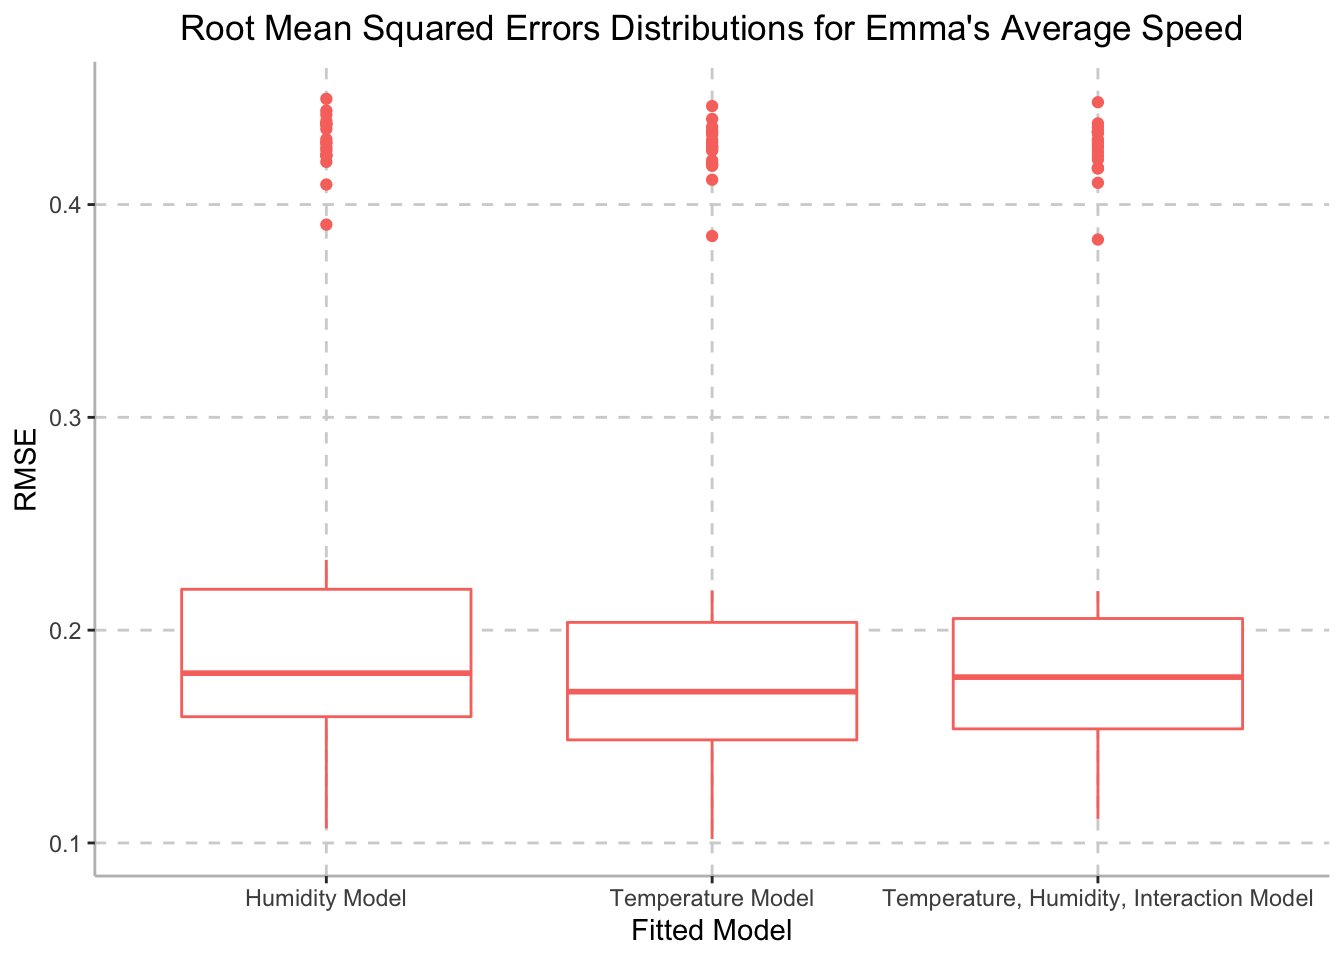
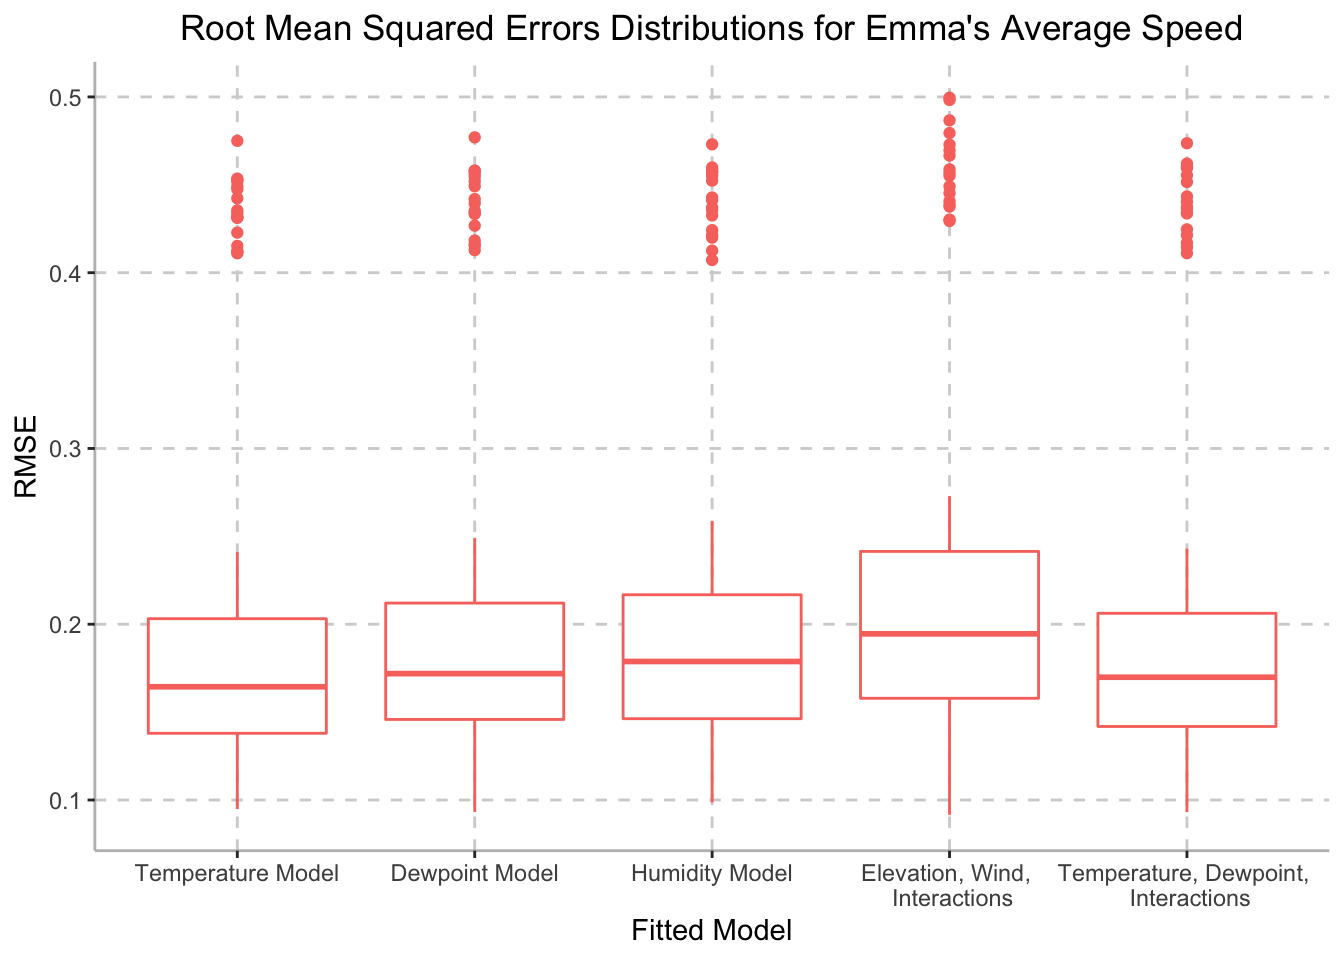
Adding new regression models

diff --git a/final_report.html b/final_report.html
@@ -891,8 +891,8 @@ marathon_geo %&gt;%
                              &quot;&lt;br&gt;Cadence:&quot;, cadence,
                             &quot;&lt;br&gt;Altitude:&quot;, enhanced_altitude)) %&gt;% 
   addProviderTiles(providers$CartoDB.Positron)</code></pre>
-<div id="htmlwidget-c97d6fc42730104ee397" style="width:672px;height:480px;" class="leaflet html-widget"></div>
-<script type="application/json" data-for="htmlwidget-c97d6fc42730104ee397">{"x":{"options":{"crs":{"crsClass":"L.CRS.EPSG3857","code":null,"proj4def":null,"projectedBounds":null,"options":{}}},"calls":[{"method":"addTiles","args":["https://{s}.tile.openstreetmap.org/{z}/{x}/{y}.png",null,null,{"minZoom":0,"maxZoom":18,"tileSize":256,"subdomains":"abc","errorTileUrl":"","tms":false,"noWrap":false,"zoomOffset":0,"zoomReverse":false,"opacity":1,"zIndex":1,"detectRetina":false,"attribution":"&copy; <a href=\"https://openstreetmap.org\">OpenStreetMap<\/a> contributors, <a href=\"https://creativecommons.org/licenses/by-sa/2.0/\">CC-BY-SA<\/a>"}]},{"method":"addCircleMarkers","args":[[40.6104348705628,40.7042159239592,40.7164656348145,40.728277819874,40.740826228118,40.7491534880795,40.7558571904419,40.7777123779879,40.7903228550433,40.8023561141454,40.6192627834549,40.8118997489457,40.8102504578455,40.8001325806757,40.7882020822061,40.7763461387941,40.766959590201,40.770384692587,null,40.6444014760309,40.6557787290627,40.6671305434582,40.6794894834151,40.6876716191673,40.6921380146503,40.6043989839213],[-74.0346232919979,-73.9608535200188,-73.9589246148317,-73.9524508345938,-73.9525773309703,-73.9450712946021,-73.9528505667326,-73.9487948260759,-73.939629788009,-73.9298666665563,-74.0288426203294,-73.928230043045,-73.9394263029525,-73.9473303446644,-73.9557053759358,-73.966941702771,-73.9756988926056,-73.9788563751305,null,-74.0148388704929,-74.0029969833497,-73.9916699058621,-73.9818277620092,-73.9710569978992,-73.9571167532644,-74.0517789316213],7,null,null,{"interactive":true,"className":"","stroke":true,"color":"orange","weight":5,"opacity":0.5,"fill":true,"fillColor":"orange","fillOpacity":0.75},null,null,["Mile: 1 <br>Speed: 7.16634034234234 <br>HR: 169.648648648649 <br>Cadence: 79.945945945946 <br>Altitude: 55.3783783783784","Mile: 10 <br>Speed: 5.91045904545455 <br>HR: 173.840909090909 <br>Cadence: 78.7045454545455 <br>Altitude: 33.7590909090909","Mile: 11 <br>Speed: 6.16624646456693 <br>HR: 177.094488188976 <br>Cadence: 82.5984251968504 <br>Altitude: 16.0708661417323","Mile: 12 <br>Speed: 6.49777232743363 <br>HR: 177.964601769911 <br>Cadence: 80.9469026548673 <br>Altitude: 18.8495575221239","Mile: 13 <br>Speed: 6.69400279464286 <br>HR: 178.732142857143 <br>Cadence: 82.5803571428571 <br>Altitude: 12.6339285714286","Mile: 14 <br>Speed: 5.6681484084507 <br>HR: 176.633802816901 <br>Cadence: 82.3943661971831 <br>Altitude: 32.8197183098592","Mile: 15 <br>Speed: 3.31547001376147 <br>HR: 139.56880733945 <br>Cadence: 79.0596330275229 <br>Altitude: 24.3201834862385","Mile: 17 <br>Speed: 6.22130553389831 <br>HR: 171.686440677966 <br>Cadence: 82.7966101694915 <br>Altitude: 42.0186440677966","Mile: 18 <br>Speed: 5.64340035384615 <br>HR: 150.307692307692 <br>Cadence: 72.3923076923077 <br>Altitude: 23.2507692307692","Mile: 19 <br>Speed: 5.27883065625 <br>HR: 145.89375 <br>Cadence: 71.54375 <br>Altitude: 24.7425","Mile: 2 <br>Speed: 6.9439558440367 <br>HR: 173 <br>Cadence: 80.8623853211009 <br>Altitude: 28.9633027522936","Mile: 20 <br>Speed: 5.93609676258993 <br>HR: 160.647482014388 <br>Cadence: 81.4244604316547 <br>Altitude: 13.6474820143885","Mile: 21 <br>Speed: 6.25834048854962 <br>HR: 159.206106870229 <br>Cadence: 81.8015267175573 <br>Altitude: 27.1435114503817","Mile: 22 <br>Speed: 5.80403946616541 <br>HR: 167.353383458647 <br>Cadence: 80.4586466165414 <br>Altitude: 46.0736842105263","Mile: 23 <br>Speed: 5.55055204511278 <br>HR: 172.233082706767 <br>Cadence: 76.6842105263158 <br>Altitude: 73.8285714285714","Mile: 24 <br>Speed: 5.43006440875912 <br>HR: 173.737226277372 <br>Cadence: 71.2116788321168 <br>Altitude: 26.043795620438","Mile: 25 <br>Speed: 5.92434019254658 <br>HR: 176.484472049689 <br>Cadence: 80.0683229813665 <br>Altitude: 7.53540372670807","Mile: 26-Finish <br>Speed: 6.85462368518519 <br>HR: 183.296296296296 <br>Cadence: 86.1481481481482 <br>Altitude: 19.3185185185185","Mile: 3 <br>Speed: NA <br>HR: 174.938053097345 <br>Cadence: 80.4070796460177 <br>Altitude: 33.7256637168142","Mile: 4 <br>Speed: 6.94028204672897 <br>HR: 175.383177570093 <br>Cadence: 80.4485981308411 <br>Altitude: 27.985046728972","Mile: 5 <br>Speed: 6.79859621052632 <br>HR: 172.69298245614 <br>Cadence: 81.3245614035088 <br>Altitude: 14.8368421052632","Mile: 6 <br>Speed: 6.84808492982456 <br>HR: 175.333333333333 <br>Cadence: 81.780701754386 <br>Altitude: 26.0666666666667","Mile: 7 <br>Speed: 6.65007464705882 <br>HR: 175.352941176471 <br>Cadence: 79.4705882352941 <br>Altitude: 22.6436974789916","Mile: 8 <br>Speed: 6.82514246280992 <br>HR: 177.280991735537 <br>Cadence: 81.7851239669422 <br>Altitude: 42.1074380165289","Mile: 9 <br>Speed: 6.75896050862069 <br>HR: 177.534482758621 <br>Cadence: 82.5948275862069 <br>Altitude: 37.3586206896552","Mile: Start <br>Speed: 6.53191371774194 <br>HR: 168.548387096774 <br>Cadence: 80.9112903225806 <br>Altitude: 68.2774193548387"],null,["1","10","11","12","13","14","15","17","18","19","2","20","21","22","23","24","25","26-Finish","3","4","5","6","7","8","9","Start"],{"interactive":false,"permanent":false,"direction":"auto","opacity":1,"offset":[0,0],"textsize":"10px","textOnly":false,"className":"","sticky":true},null]},{"method":"addProviderTiles","args":["CartoDB.Positron",null,null,{"errorTileUrl":"","noWrap":false,"detectRetina":false}]}],"limits":{"lat":[40.6043989839213,40.8118997489457],"lng":[-74.0517789316213,-73.928230043045]}},"evals":[],"jsHooks":[]}</script>
+<div id="htmlwidget-c4be919c3aa57919ebe1" style="width:672px;height:480px;" class="leaflet html-widget"></div>
+<script type="application/json" data-for="htmlwidget-c4be919c3aa57919ebe1">{"x":{"options":{"crs":{"crsClass":"L.CRS.EPSG3857","code":null,"proj4def":null,"projectedBounds":null,"options":{}}},"calls":[{"method":"addTiles","args":["https://{s}.tile.openstreetmap.org/{z}/{x}/{y}.png",null,null,{"minZoom":0,"maxZoom":18,"tileSize":256,"subdomains":"abc","errorTileUrl":"","tms":false,"noWrap":false,"zoomOffset":0,"zoomReverse":false,"opacity":1,"zIndex":1,"detectRetina":false,"attribution":"&copy; <a href=\"https://openstreetmap.org\">OpenStreetMap<\/a> contributors, <a href=\"https://creativecommons.org/licenses/by-sa/2.0/\">CC-BY-SA<\/a>"}]},{"method":"addCircleMarkers","args":[[40.6104348705628,40.7042159239592,40.7164656348145,40.728277819874,40.740826228118,40.7491534880795,40.7558571904419,40.7777123779879,40.7903228550433,40.8023561141454,40.6192627834549,40.8118997489457,40.8102504578455,40.8001325806757,40.7882020822061,40.7763461387941,40.766959590201,40.770384692587,null,40.6444014760309,40.6557787290627,40.6671305434582,40.6794894834151,40.6876716191673,40.6921380146503,40.6043989839213],[-74.0346232919979,-73.9608535200188,-73.9589246148317,-73.9524508345938,-73.9525773309703,-73.9450712946021,-73.9528505667326,-73.9487948260759,-73.939629788009,-73.9298666665563,-74.0288426203294,-73.928230043045,-73.9394263029525,-73.9473303446644,-73.9557053759358,-73.966941702771,-73.9756988926056,-73.9788563751305,null,-74.0148388704929,-74.0029969833497,-73.9916699058621,-73.9818277620092,-73.9710569978992,-73.9571167532644,-74.0517789316213],7,null,null,{"interactive":true,"className":"","stroke":true,"color":"orange","weight":5,"opacity":0.5,"fill":true,"fillColor":"orange","fillOpacity":0.75},null,null,["Mile: 1 <br>Speed: 7.16634034234234 <br>HR: 169.648648648649 <br>Cadence: 79.945945945946 <br>Altitude: 55.3783783783784","Mile: 10 <br>Speed: 5.91045904545455 <br>HR: 173.840909090909 <br>Cadence: 78.7045454545455 <br>Altitude: 33.7590909090909","Mile: 11 <br>Speed: 6.16624646456693 <br>HR: 177.094488188976 <br>Cadence: 82.5984251968504 <br>Altitude: 16.0708661417323","Mile: 12 <br>Speed: 6.49777232743363 <br>HR: 177.964601769911 <br>Cadence: 80.9469026548673 <br>Altitude: 18.8495575221239","Mile: 13 <br>Speed: 6.69400279464286 <br>HR: 178.732142857143 <br>Cadence: 82.5803571428571 <br>Altitude: 12.6339285714286","Mile: 14 <br>Speed: 5.6681484084507 <br>HR: 176.633802816901 <br>Cadence: 82.3943661971831 <br>Altitude: 32.8197183098592","Mile: 15 <br>Speed: 3.31547001376147 <br>HR: 139.56880733945 <br>Cadence: 79.0596330275229 <br>Altitude: 24.3201834862385","Mile: 17 <br>Speed: 6.22130553389831 <br>HR: 171.686440677966 <br>Cadence: 82.7966101694915 <br>Altitude: 42.0186440677966","Mile: 18 <br>Speed: 5.64340035384615 <br>HR: 150.307692307692 <br>Cadence: 72.3923076923077 <br>Altitude: 23.2507692307692","Mile: 19 <br>Speed: 5.27883065625 <br>HR: 145.89375 <br>Cadence: 71.54375 <br>Altitude: 24.7425","Mile: 2 <br>Speed: 6.9439558440367 <br>HR: 173 <br>Cadence: 80.8623853211009 <br>Altitude: 28.9633027522936","Mile: 20 <br>Speed: 5.93609676258993 <br>HR: 160.647482014388 <br>Cadence: 81.4244604316547 <br>Altitude: 13.6474820143885","Mile: 21 <br>Speed: 6.25834048854962 <br>HR: 159.206106870229 <br>Cadence: 81.8015267175573 <br>Altitude: 27.1435114503817","Mile: 22 <br>Speed: 5.80403946616541 <br>HR: 167.353383458647 <br>Cadence: 80.4586466165414 <br>Altitude: 46.0736842105263","Mile: 23 <br>Speed: 5.55055204511278 <br>HR: 172.233082706767 <br>Cadence: 76.6842105263158 <br>Altitude: 73.8285714285714","Mile: 24 <br>Speed: 5.43006440875912 <br>HR: 173.737226277372 <br>Cadence: 71.2116788321168 <br>Altitude: 26.043795620438","Mile: 25 <br>Speed: 5.92434019254658 <br>HR: 176.484472049689 <br>Cadence: 80.0683229813665 <br>Altitude: 7.53540372670807","Mile: 26-Finish <br>Speed: 6.85462368518519 <br>HR: 183.296296296296 <br>Cadence: 86.1481481481482 <br>Altitude: 19.3185185185185","Mile: 3 <br>Speed: NA <br>HR: 174.938053097345 <br>Cadence: 80.4070796460177 <br>Altitude: 33.7256637168142","Mile: 4 <br>Speed: 6.94028204672897 <br>HR: 175.383177570093 <br>Cadence: 80.4485981308411 <br>Altitude: 27.985046728972","Mile: 5 <br>Speed: 6.79859621052632 <br>HR: 172.69298245614 <br>Cadence: 81.3245614035088 <br>Altitude: 14.8368421052632","Mile: 6 <br>Speed: 6.84808492982456 <br>HR: 175.333333333333 <br>Cadence: 81.780701754386 <br>Altitude: 26.0666666666667","Mile: 7 <br>Speed: 6.65007464705882 <br>HR: 175.352941176471 <br>Cadence: 79.4705882352941 <br>Altitude: 22.6436974789916","Mile: 8 <br>Speed: 6.82514246280992 <br>HR: 177.280991735537 <br>Cadence: 81.7851239669422 <br>Altitude: 42.1074380165289","Mile: 9 <br>Speed: 6.75896050862069 <br>HR: 177.534482758621 <br>Cadence: 82.5948275862069 <br>Altitude: 37.3586206896552","Mile: Start <br>Speed: 6.53191371774194 <br>HR: 168.548387096774 <br>Cadence: 80.9112903225806 <br>Altitude: 68.2774193548387"],null,["1","10","11","12","13","14","15","17","18","19","2","20","21","22","23","24","25","26-Finish","3","4","5","6","7","8","9","Start"],{"interactive":false,"permanent":false,"direction":"auto","opacity":1,"offset":[0,0],"textsize":"10px","textOnly":false,"className":"","sticky":true},null]},{"method":"addProviderTiles","args":["CartoDB.Positron",null,null,{"errorTileUrl":"","noWrap":false,"detectRetina":false}]}],"limits":{"lat":[40.6043989839213,40.8118997489457],"lng":[-74.0517789316213,-73.928230043045]}},"evals":[],"jsHooks":[]}</script>
 <p>The leaflet plot above demonstrates Emma’s NYCM racing path. Each
 marker indicates the mile number and average speed (meters/sec), heart
 rate, cadence, and altitude for that mile. As a note, Strava failed to
@@ -903,29 +903,34 @@ leaflet above.</p>
 </div>
 <div id="additional-analysis" class="section level2">
 <h2>Additional Analysis</h2>
-<div id="performance-regression-models" class="section level3">
-<h3>Performance Regression Models</h3>
-<pre class="r"><code>speed_temp = lm(average_speed ~ weather_temperature, data = tidy_training)
-
-speed_humidity = lm(average_speed ~ humidity, data = tidy_training)
-
-speed_temp_humidity_int = lm(average_speed ~ (weather_temperature + humidity)^3, data = tidy_training)</code></pre>
+<div id="speed-regression-models" class="section level3">
+<h3>Speed Regression Models</h3>
+<pre class="r"><code>fit1 = lm(average_speed ~ weather_temperature, data = tidy_training)
+fit2 = lm(average_speed ~ dewpoint, data = tidy_training)
+fit3 = lm(average_speed ~ humidity, data = tidy_training)
+fit4 = lm(average_speed ~ (elevation_gain + wind_speed)^3, data = tidy_training)
+fit5 = lm(average_speed ~ (weather_temperature + dewpoint)^3, data = tidy_training)</code></pre>
 </div>
-<div id="cross-validation" class="section level3">
-<h3>Cross-Validation</h3>
+<div id="cross-validation-speed" class="section level3">
+<h3>Cross-Validation: Speed</h3>
 <pre class="r"><code>cv_df = 
   crossv_mc(tidy_training, 100)
 
 cv_df = cv_df %&gt;% 
   mutate(
-    speed_temp_mod      = map(.x = train, ~lm(average_speed ~ weather_temperature, data = .x)), 
-    speed_humidity_mod   = map(.x = train, ~lm(average_speed ~ humidity, data = .x)), 
-    speed_temp_humidity_int_mod = map(.x = train, ~lm(average_speed ~ (weather_temperature + humidity)^3, data = .x))) %&gt;% 
+    mod1 = map(.x = train, ~lm(average_speed ~ weather_temperature, data = .x)), 
+    mod2 = map(.x = train, ~lm(average_speed ~ dewpoint, data = .x)), 
+    mod3 = map(.x = train, ~lm(average_speed ~ humidity, data = .x)), 
+    mod4 = map(.x = train, ~lm(average_speed ~ (elevation_gain + wind_speed)^3, data = .x)),
+    mod5 = map(.x = train, ~lm(average_speed ~ (weather_temperature + dewpoint)^3, data = .x))) %&gt;% 
   mutate(
-    rmse_speed_temp = map2_dbl(.x = speed_temp_mod, .y = test, ~rmse(model = .x, data = .y)), 
-    rmse_speed_humidity = map2_dbl(.x = speed_humidity_mod, .y = test, ~rmse(model = .x, data = .y)), 
-    rmse_speed_temp_humidity_int = map2_dbl(.x = speed_temp_humidity_int_mod, .y = test, ~rmse(model = .x, data = .y)))</code></pre>
-<pre class="r"><code>cv_df %&gt;% 
+    rmse_mod1 = map2_dbl(.x = mod1, .y = test, ~rmse(model = .x, data = .y)), 
+    rmse_mod2 = map2_dbl(.x = mod2, .y = test, ~rmse(model = .x, data = .y)), 
+    rmse_mod3 = map2_dbl(.x = mod3, .y = test, ~rmse(model = .x, data = .y)),
+    rmse_mod4 = map2_dbl(.x = mod4, .y = test, ~rmse(model = .x, data = .y)),
+    rmse_mod5 = map2_dbl(.x = mod5, .y = test, ~rmse(model = .x, data = .y)))
+
+cv_df %&gt;% 
   select(starts_with(&quot;rmse&quot;)) %&gt;% 
   pivot_longer(
     everything(), 
@@ -942,11 +947,108 @@ cv_df = cv_df %&gt;%
         panel.background = element_blank(), 
         legend.position = &quot;none&quot;, 
         panel.grid.major = element_line(color = &quot;light grey&quot;, linetype = &quot;dashed&quot;),
-        plot.title = element_text(hjust = 0.5)) + 
-  scale_x_discrete(labels = c(&quot;speed_humidity&quot; = &quot;Humidity Model&quot;, 
-                              &quot;speed_temp&quot; = &quot;Temperature Model&quot;, 
-                              &quot;speed_temp_humidity_int&quot; = &quot;Temperature, Humidity, Interaction Model&quot;))</code></pre>
-<p><img src="final_report_files/figure-html/unnamed-chunk-16-1.png" width="672" /></p>
+        plot.title = element_text(hjust = 0.5)) +
+  scale_x_discrete(labels = c(&quot;mod1&quot; = &quot;Temperature Model&quot;, 
+                              &quot;mod2&quot; = &quot;Dewpoint Model&quot;, 
+                              &quot;mod3&quot; = &quot;Humidity Model&quot;,
+                              &quot;mod4&quot; = &quot;Elevation, Wind, \n Interactions&quot;,
+                              &quot;mod5&quot; = &quot;Temperature, Dewpoint, \n Interactions&quot;))</code></pre>
+<p><img src="final_report_files/figure-html/unnamed-chunk-15-1.png" width="672" /></p>
+<pre class="r"><code>summary(fit1)</code></pre>
+<pre><code>## 
+## Call:
+## lm(formula = average_speed ~ weather_temperature, data = tidy_training)
+## 
+## Residuals:
+##      Min       1Q   Median       3Q      Max 
+## -1.67575 -0.04426  0.02527  0.08812  0.52378 
+## 
+## Coefficients:
+##                     Estimate Std. Error t value Pr(&gt;|t|)    
+## (Intercept)         2.828694   0.098756  28.643   &lt;2e-16 ***
+## weather_temperature 0.010893   0.004964   2.194    0.031 *  
+## ---
+## Signif. codes:  0 &#39;***&#39; 0.001 &#39;**&#39; 0.01 &#39;*&#39; 0.05 &#39;.&#39; 0.1 &#39; &#39; 1
+## 
+## Residual standard error: 0.2448 on 83 degrees of freedom
+##   (23 observations deleted due to missingness)
+## Multiple R-squared:  0.05483,    Adjusted R-squared:  0.04344 
+## F-statistic: 4.815 on 1 and 83 DF,  p-value: 0.03101</code></pre>
+</div>
+<div id="relative-effort-regression-models" class="section level3">
+<h3>Relative Effort Regression Models</h3>
+<pre class="r"><code>fit1 = lm(relative_effort ~ weather_temperature, data = tidy_training)
+fit2 = lm(relative_effort ~ dewpoint, data = tidy_training)
+fit3 = lm(relative_effort ~ humidity, data = tidy_training)
+fit4 = lm(relative_effort ~ (elevation_gain + wind_speed)^3, data = tidy_training)
+fit5 = lm(relative_effort ~ (weather_temperature + dewpoint + humidity)^4, data = tidy_training)</code></pre>
+</div>
+<div id="cross-validation-relative-effort" class="section level3">
+<h3>Cross-Validation: Relative Effort</h3>
+<pre class="r"><code>cv_df = 
+  crossv_mc(tidy_training, 100)
+
+cv_df = cv_df %&gt;% 
+  mutate(
+    mod1 = map(.x = train, ~lm(relative_effort ~ weather_temperature, data = .x)), 
+    mod2 = map(.x = train, ~lm(relative_effort ~ dewpoint, data = .x)), 
+    mod3 = map(.x = train, ~lm(relative_effort ~ humidity, data = .x)), 
+    mod4 = map(.x = train, ~lm(relative_effort ~ (elevation_gain + wind_speed)^3, data = .x)),
+    mod5 = map(.x = train, ~lm(relative_effort ~ (weather_temperature + dewpoint + humidity)^4, data = .x))) %&gt;% 
+  mutate(
+    rmse_mod1 = map2_dbl(.x = mod1, .y = test, ~rmse(model = .x, data = .y)), 
+    rmse_mod2 = map2_dbl(.x = mod2, .y = test, ~rmse(model = .x, data = .y)), 
+    rmse_mod3 = map2_dbl(.x = mod3, .y = test, ~rmse(model = .x, data = .y)),
+    rmse_mod4 = map2_dbl(.x = mod4, .y = test, ~rmse(model = .x, data = .y)),
+    rmse_mod5 = map2_dbl(.x = mod5, .y = test, ~rmse(model = .x, data = .y)))
+
+cv_df %&gt;% 
+  select(starts_with(&quot;rmse&quot;)) %&gt;% 
+  pivot_longer(
+    everything(), 
+    names_to = &quot;model&quot;, 
+    values_to = &quot;rmse&quot;, 
+    names_prefix = &quot;rmse_&quot;) %&gt;% 
+  ggplot(aes(x = model, y = rmse, color = c(&quot;#FFA500&quot;))) +
+  geom_boxplot() + 
+  labs(
+    title = &quot;Root Mean Squared Errors Distributions for Emma&#39;s Relative Effort&quot;, 
+    x = &quot;Fitted Model&quot;, 
+    y = &quot;RMSE&quot;)  + 
+  theme(axis.line = element_line(color = &quot;grey&quot;), 
+        panel.background = element_blank(), 
+        legend.position = &quot;none&quot;, 
+        panel.grid.major = element_line(color = &quot;light grey&quot;, linetype = &quot;dashed&quot;),
+        plot.title = element_text(hjust = 0.5)) +
+  scale_x_discrete(labels = c(&quot;mod1&quot; = &quot;Temperature Model&quot;, 
+                              &quot;mod2&quot; = &quot;Dewpoint Model&quot;, 
+                              &quot;mod3&quot; = &quot;Humidity Model&quot;,
+                              &quot;mod4&quot; = &quot;Elevation, Wind, \n Interactions&quot;,
+                              &quot;mod5&quot; = &quot;Temperature, Dewpoint, \n Humidity, Interactions&quot;))</code></pre>
+<p><img src="final_report_files/figure-html/unnamed-chunk-17-1.png" width="672" /></p>
+<pre class="r"><code>summary(fit4)</code></pre>
+<pre><code>## 
+## Call:
+## lm(formula = relative_effort ~ (elevation_gain + wind_speed)^3, 
+##     data = tidy_training)
+## 
+## Residuals:
+##     Min      1Q  Median      3Q     Max 
+## -163.63  -35.76  -10.56   21.26  203.10 
+## 
+## Coefficients:
+##                            Estimate Std. Error t value Pr(&gt;|t|)    
+## (Intercept)                42.83045   21.76527   1.968   0.0525 .  
+## elevation_gain              1.06897    0.25240   4.235 5.99e-05 ***
+## wind_speed                -15.86500    7.77148  -2.041   0.0445 *  
+## elevation_gain:wind_speed   0.19942    0.07847   2.541   0.0130 *  
+## ---
+## Signif. codes:  0 &#39;***&#39; 0.001 &#39;**&#39; 0.01 &#39;*&#39; 0.05 &#39;.&#39; 0.1 &#39; &#39; 1
+## 
+## Residual standard error: 62.73 on 81 degrees of freedom
+##   (23 observations deleted due to missingness)
+## Multiple R-squared:  0.6311, Adjusted R-squared:  0.6175 
+## F-statistic: 46.19 on 3 and 81 DF,  p-value: &lt; 2.2e-16</code></pre>
 </div>
 </div>
 <div id="discussion" class="section level2">
